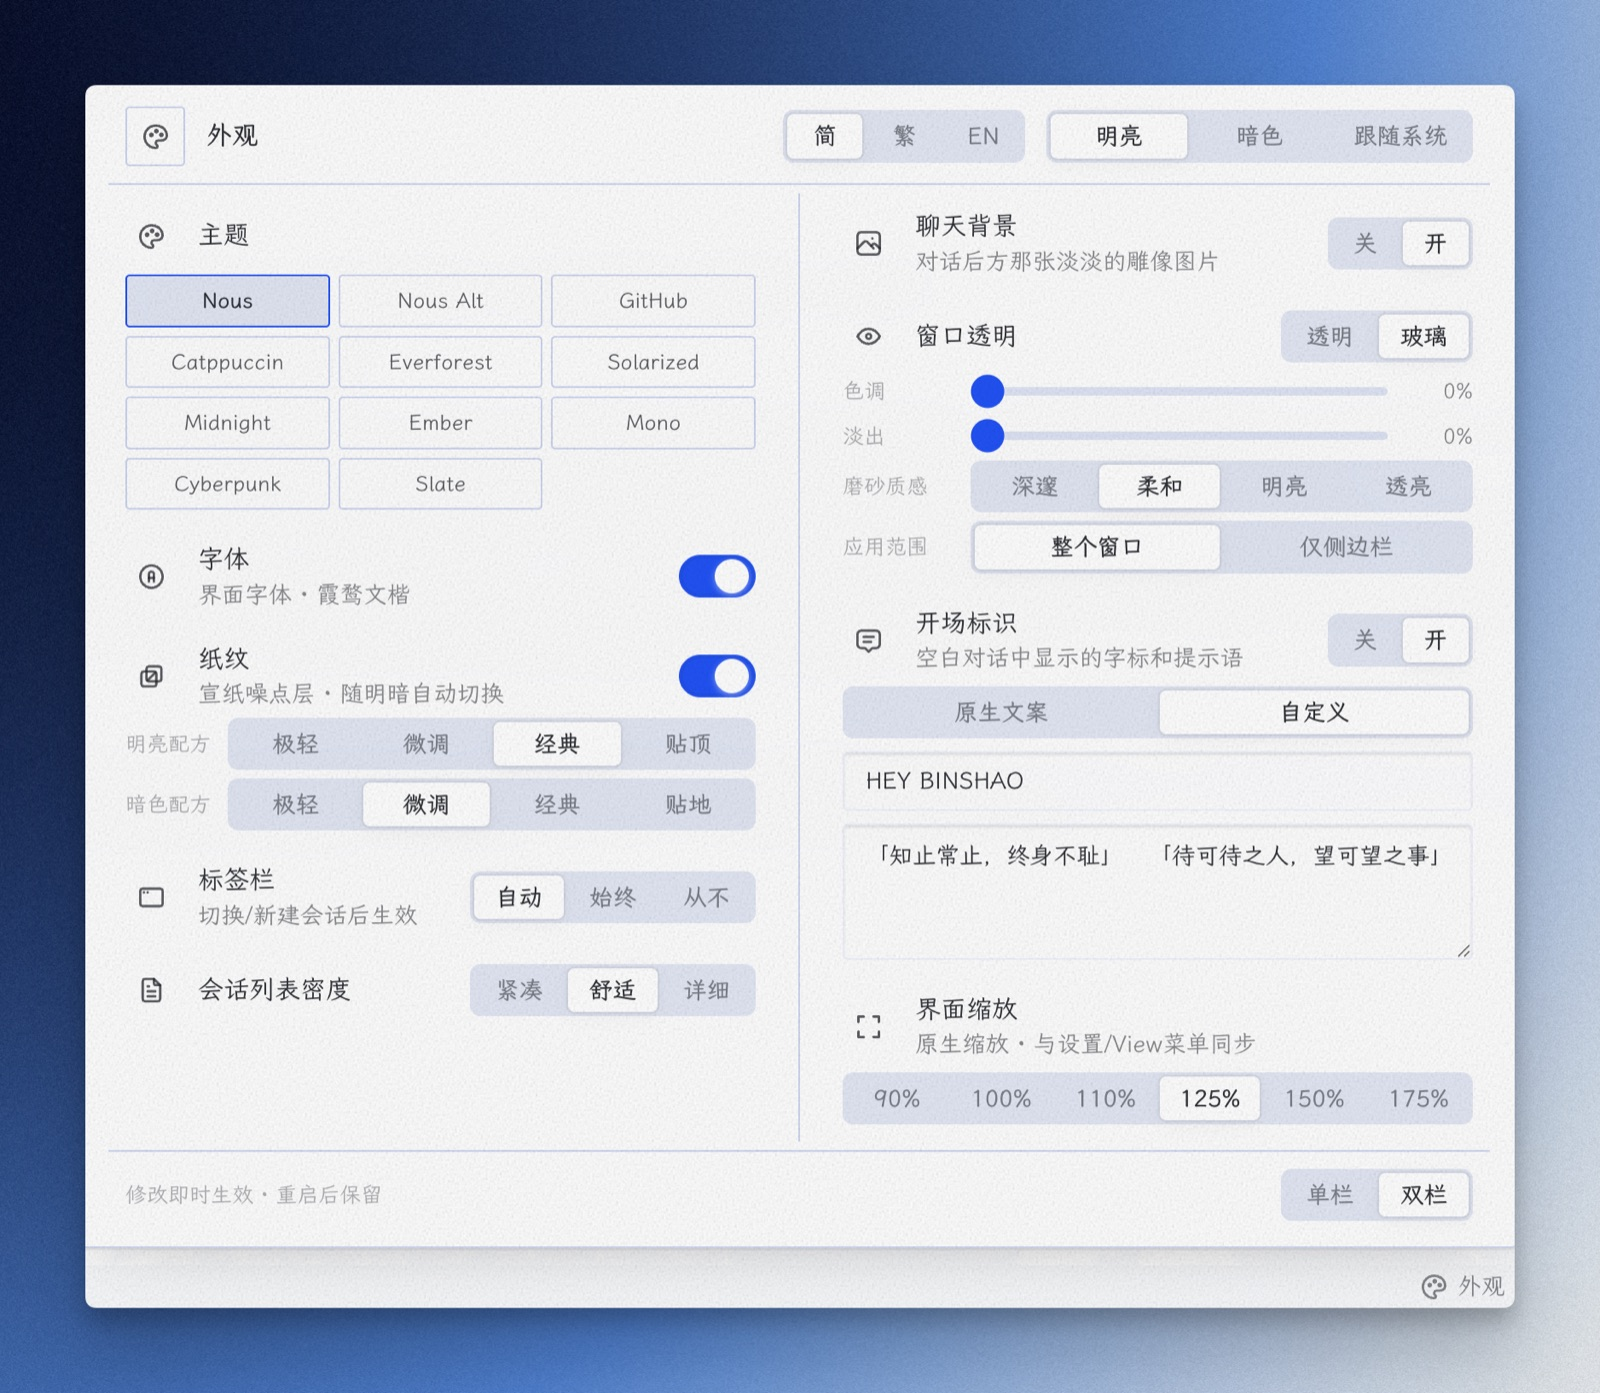
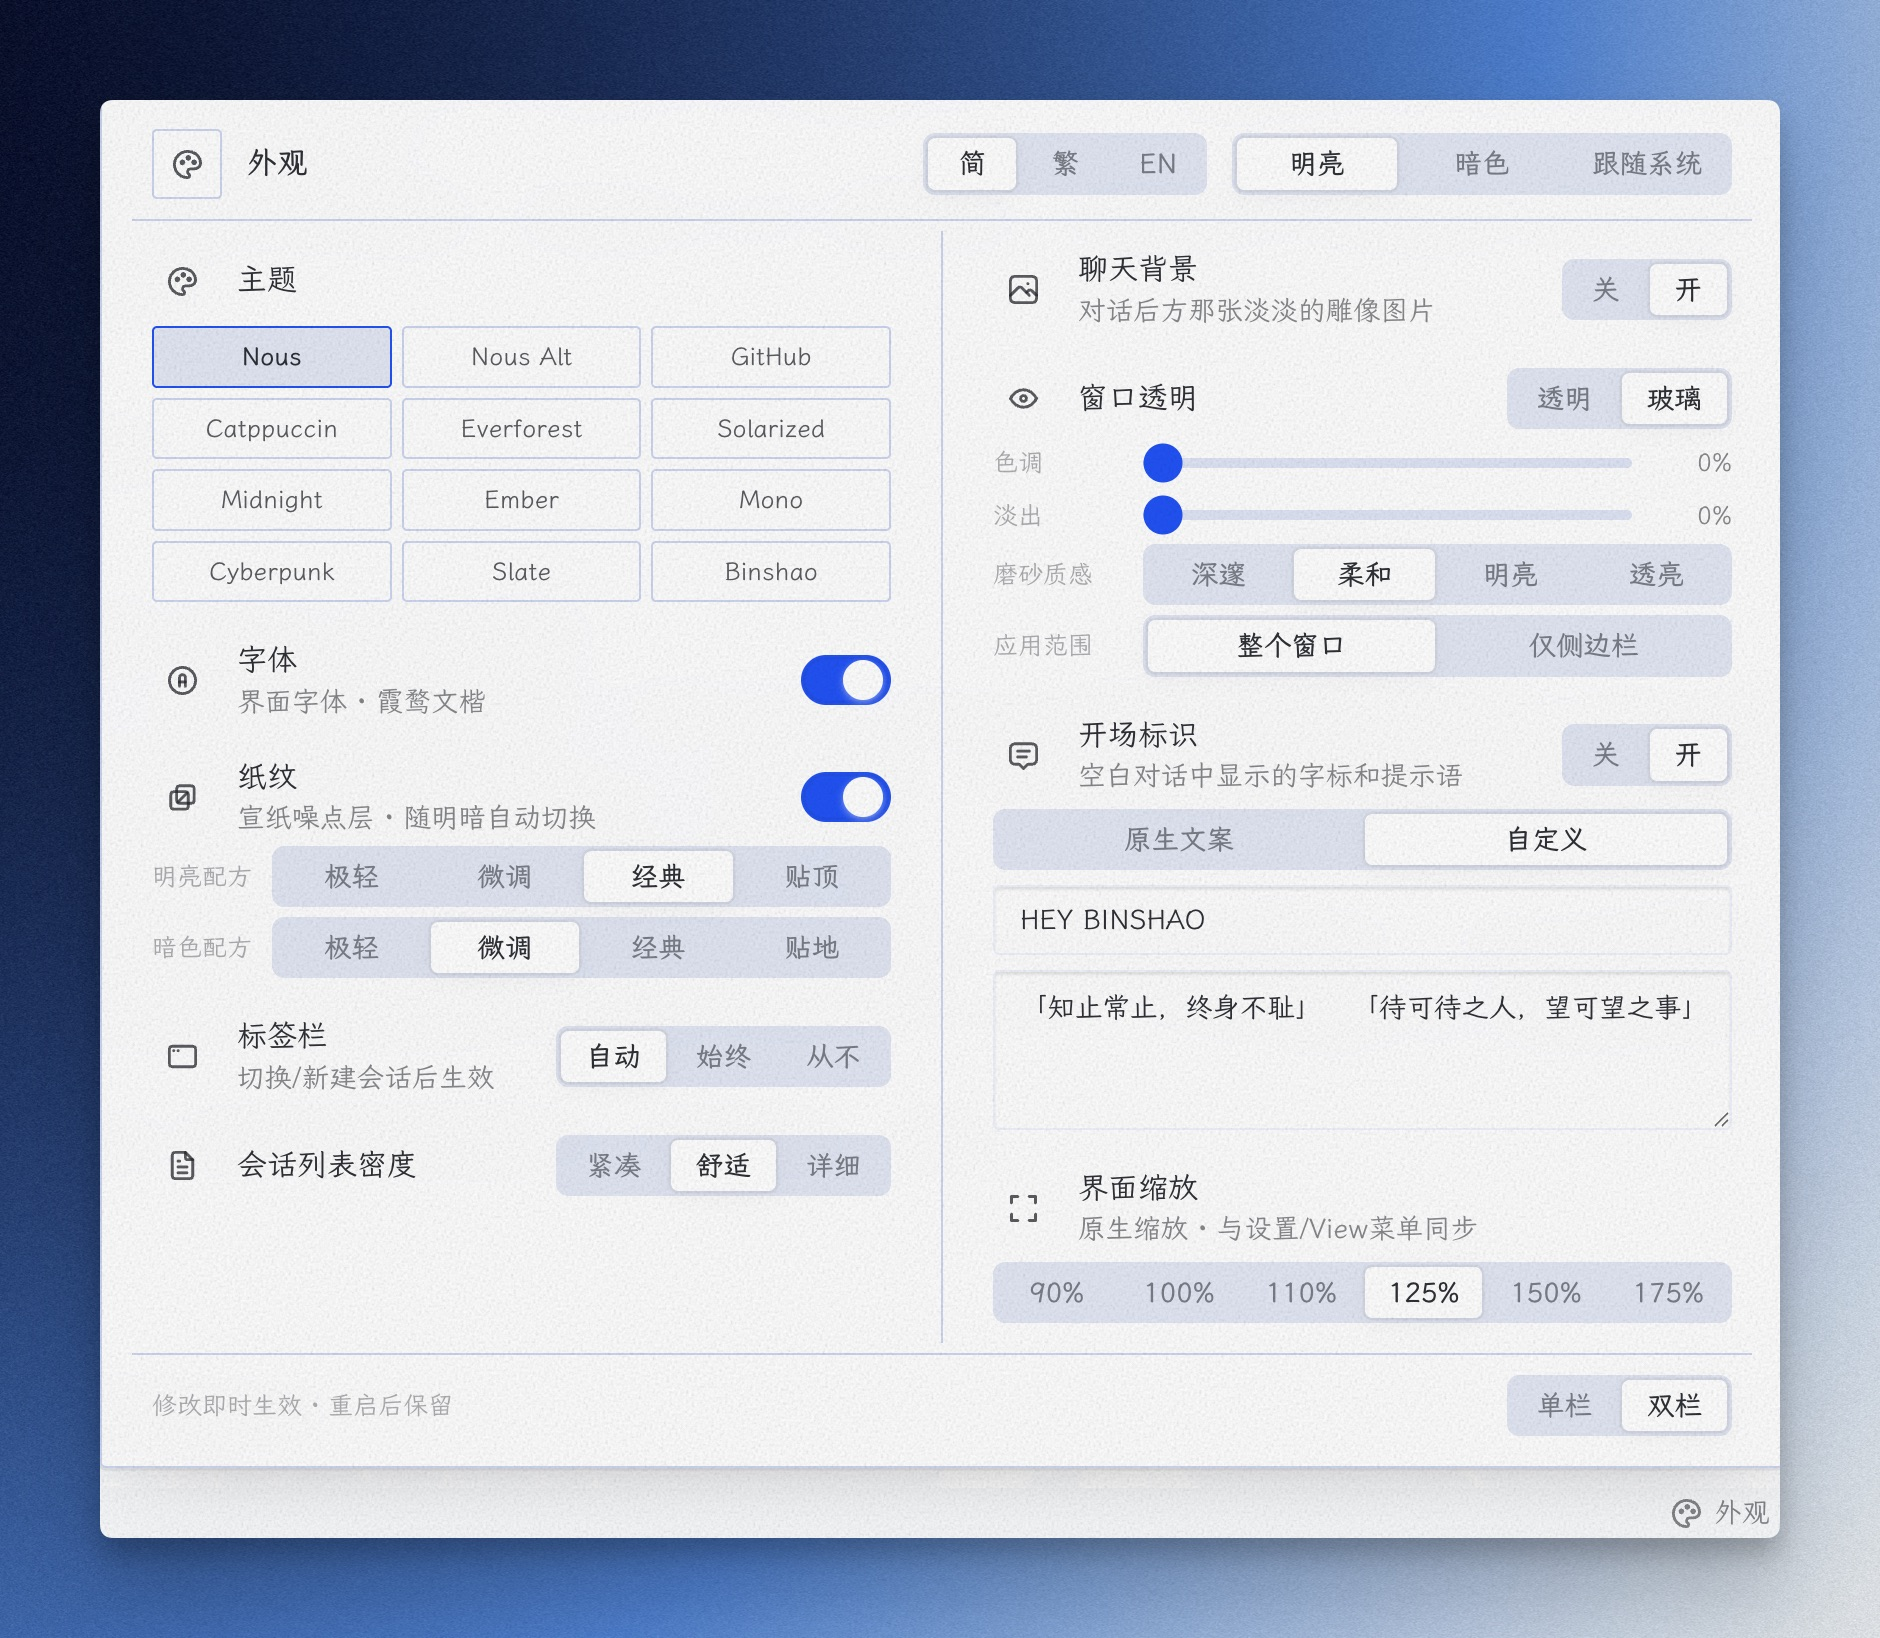
feat: Binshao theme (Obsidian Primary port) + refreshed panel screenshots
- Binshao user theme: seed-solved light/dark palettes + terminal ANSI
- layer-2 color patch (selection yellow / input / inline code), scoped CSS
- theme grid: 12 entries; version bump v2.2.0
- replace single/dual panel screenshots; add Binshao light/dark shots

diff --git a/README.md b/README.md
@@ -1,4 +1,4 @@
-# Hermes Appearance Hub ![版本](https://img.shields.io/badge/版本-v2.1.0-blue)
+# Hermes Appearance Hub ![版本](https://img.shields.io/badge/版本-v2.2.0-blue)
 
 给 Hermes 桌面端用的**外观整合插件**：把主题、纸纹、字体、缩放、标签栏、密度、聊天背景、窗口透明、开场标识等外观设置收进一个状态栏入口，一键管理，设置持久化。
 
@@ -6,7 +6,7 @@
 
 - ✅ 无需构建、不改应用代码——单个 ESM 文件
 - ✅ 状态栏「外观」按钮 → 浮窗开关，与核心状态栏工具同款交互
-- ✅ **主题切换**：明亮/暗色/跟随系统三档 + 11 个原生主题一键切换，实时生效
+- ✅ **主题切换**：明亮/暗色/跟随系统三档 + 12 个主题一键切换（11 个原生 + **Binshao**——Obsidian Primary 暖纸色系移植，明暗双模式 + 终端配色），实时生效
 - ✅ **语言快捷切换**：简/繁/EN 三键绑定官方语言通道，一键切换界面语言（双栏在顶部标题行、单栏在主题标题行）
 - ✅ **字体**：霞鹜文楷界面字体一键开关
 - ✅ **纸纹**：宣纸噪点层，明暗配方各四档（极轻/微调/经典/贴地·贴顶）
@@ -39,6 +39,14 @@
 底部「单栏 / 双栏」开关一键切换，双栏下面板高度减半，矮屏/大缩放不再需要滚动：
 
 ![外观浮窗 · 双栏](assets/screenshot-panel-dual.jpg)
+
+### Binshao 主题（移植自 Obsidian Primary）
+
+暖纸色系明暗双模式，配纸纹层食用更佳——亮色泛黄杂志纸，暗色深棕纸：
+
+![Binshao · 明亮](assets/screenshot-theme-binshao-light.jpg)
+
+![Binshao · 暗色](assets/screenshot-theme-binshao-dark.jpg)
 
 ### 开场标识自定义
 
@@ -97,7 +105,7 @@ git clone https://github.com/Heybinshao/hermes-appearance-hub ~/.hermes/desktop-
 
 1. 状态栏右侧出现「外观」按钮（调色盘图标），点击弹出浮窗
 2. 所有能力即时生效：
-   - **主题**：右上角明亮/暗色/系统三档；网格区 11 个原生主题点击即切
+   - **主题**：右上角明亮/暗色/系统三档；网格区 12 个主题点击即切（11 个原生 + Binshao）
    - **字体**：霞鹜文楷界面字体一键开关
    - **纸纹**：噪点层随明暗自动切换；下方配方可选极轻/微调/经典/贴地（暗色）或贴顶（浅色），从左到右由轻到重
    - **界面缩放**：六档按钮，直接驱动 Hermes 原生缩放，与设置/View 菜单同步
@@ -130,6 +138,7 @@ rm -rf ~/.hermes/desktop-plugins/hermes-appearance-hub
 - **密度/标签栏/聊天背景**：直写官方 localStorage 键，并通过动态 import 官方打包 chunk 拿到 nanostores atom 实时驱动界面（运行时按行为特征识别 atom，无硬编码混淆名）；atom 未识别时退回 localStorage 直写
 - **窗口透明**：写 TranslucencyBook JSON 后直接调用 `window.hermesDesktop.setTranslucency()` IPC，实时驱动原生窗口效果
 - **双栏布局**：面板区块提取为列表后按列分配渲染，标题行通栏；布局选择持久化到插件 storage，单栏模式与原始布局完全一致
+- **Binshao 主题**：主题种子写入官方用户主题 localStorage 键（`hermes-desktop-user-themes-v1`），经官方 `resolveTheme` 生效；另注入一小段作用域锁定的 CSS（选中色/输入框底/行内代码），补齐主题管道外的硬编码色
 
 ## 关于作者
 
